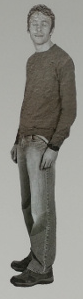
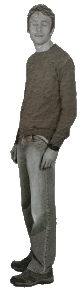
matt

diff --git a/css/custom.css b/css/custom.css
@@ -53,6 +53,10 @@ span.name > span:last-of-type, span.sc {
   text-align: center;
 }
 
+.slides img[src="images/matt.png"] {
+  box-shadow: none;
+}
+
 .slides .fragment:not(.current-fragment) > figure {
   display: none;
 }
